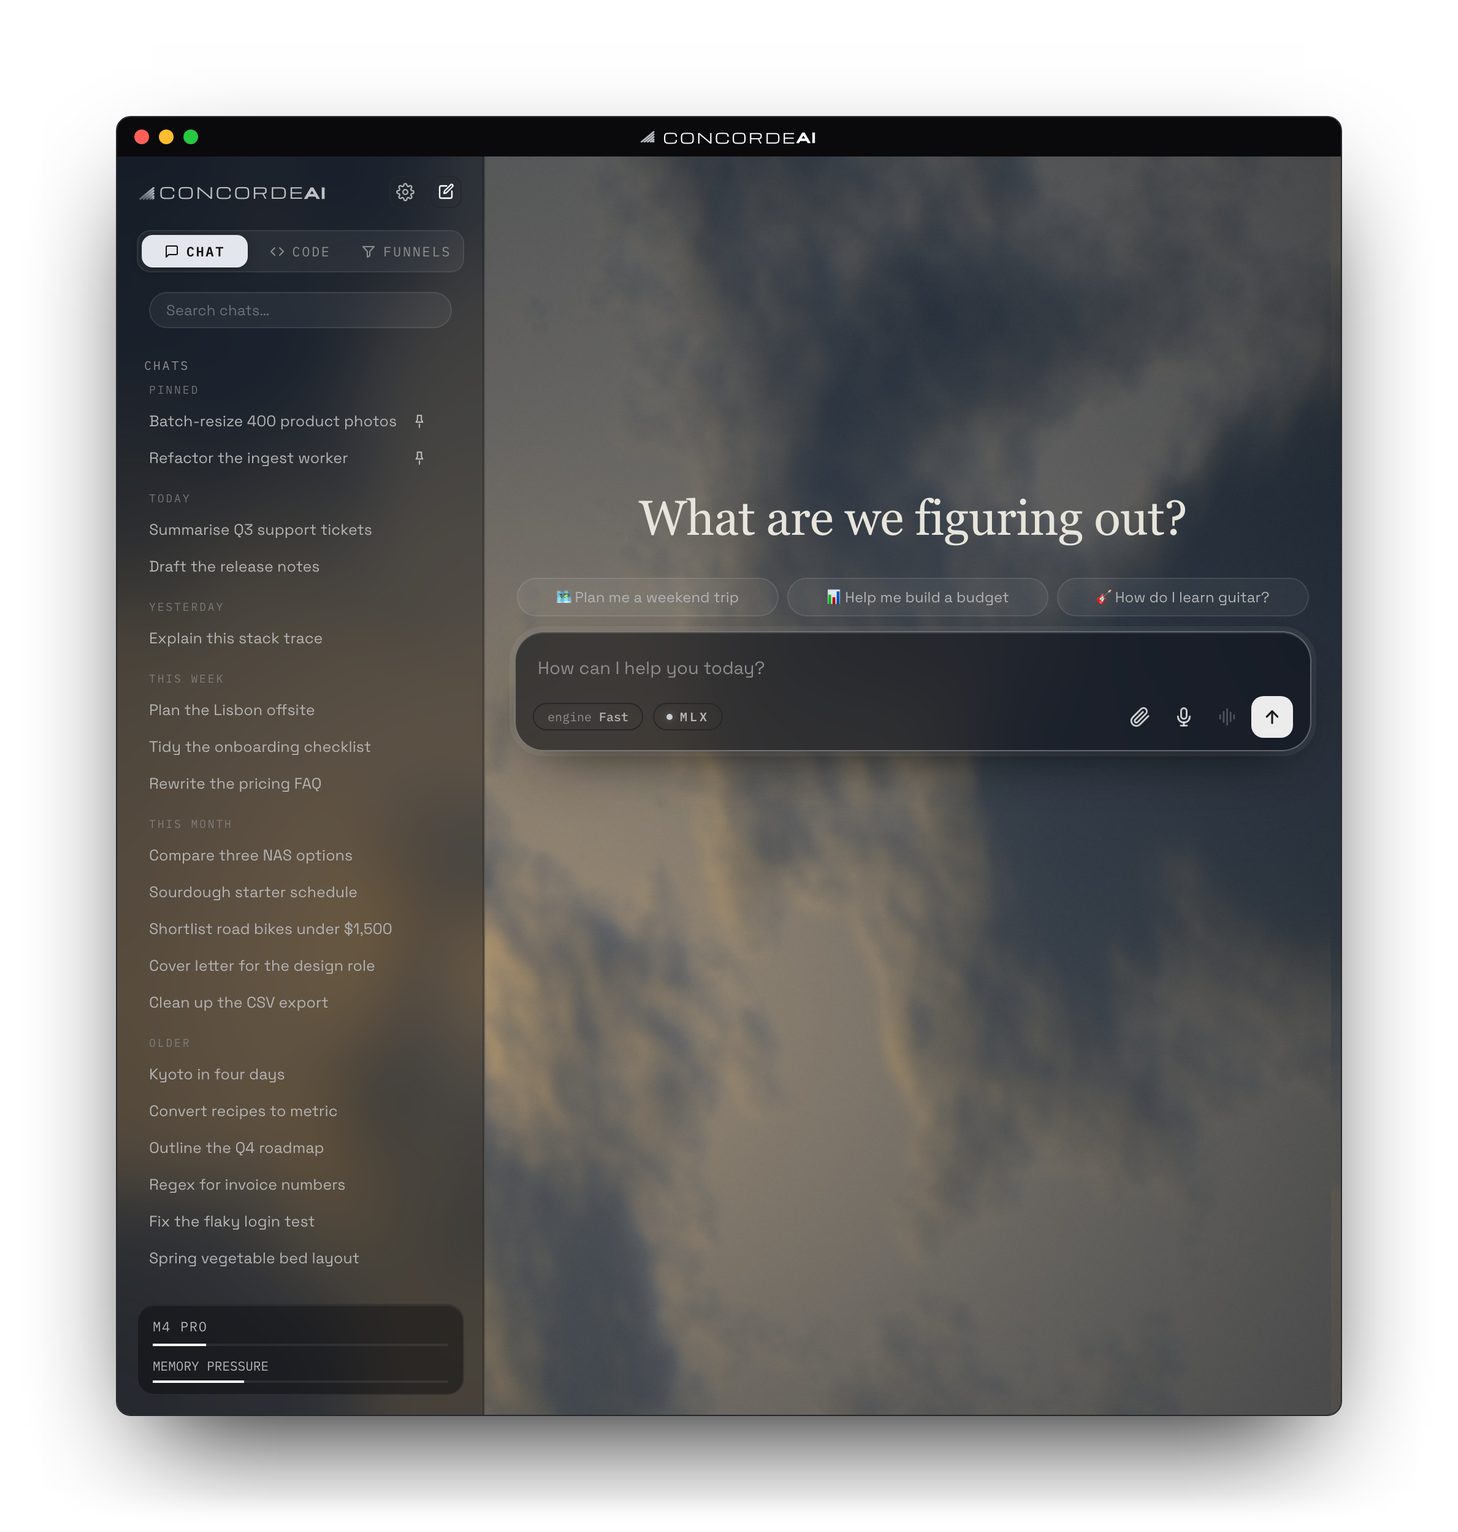
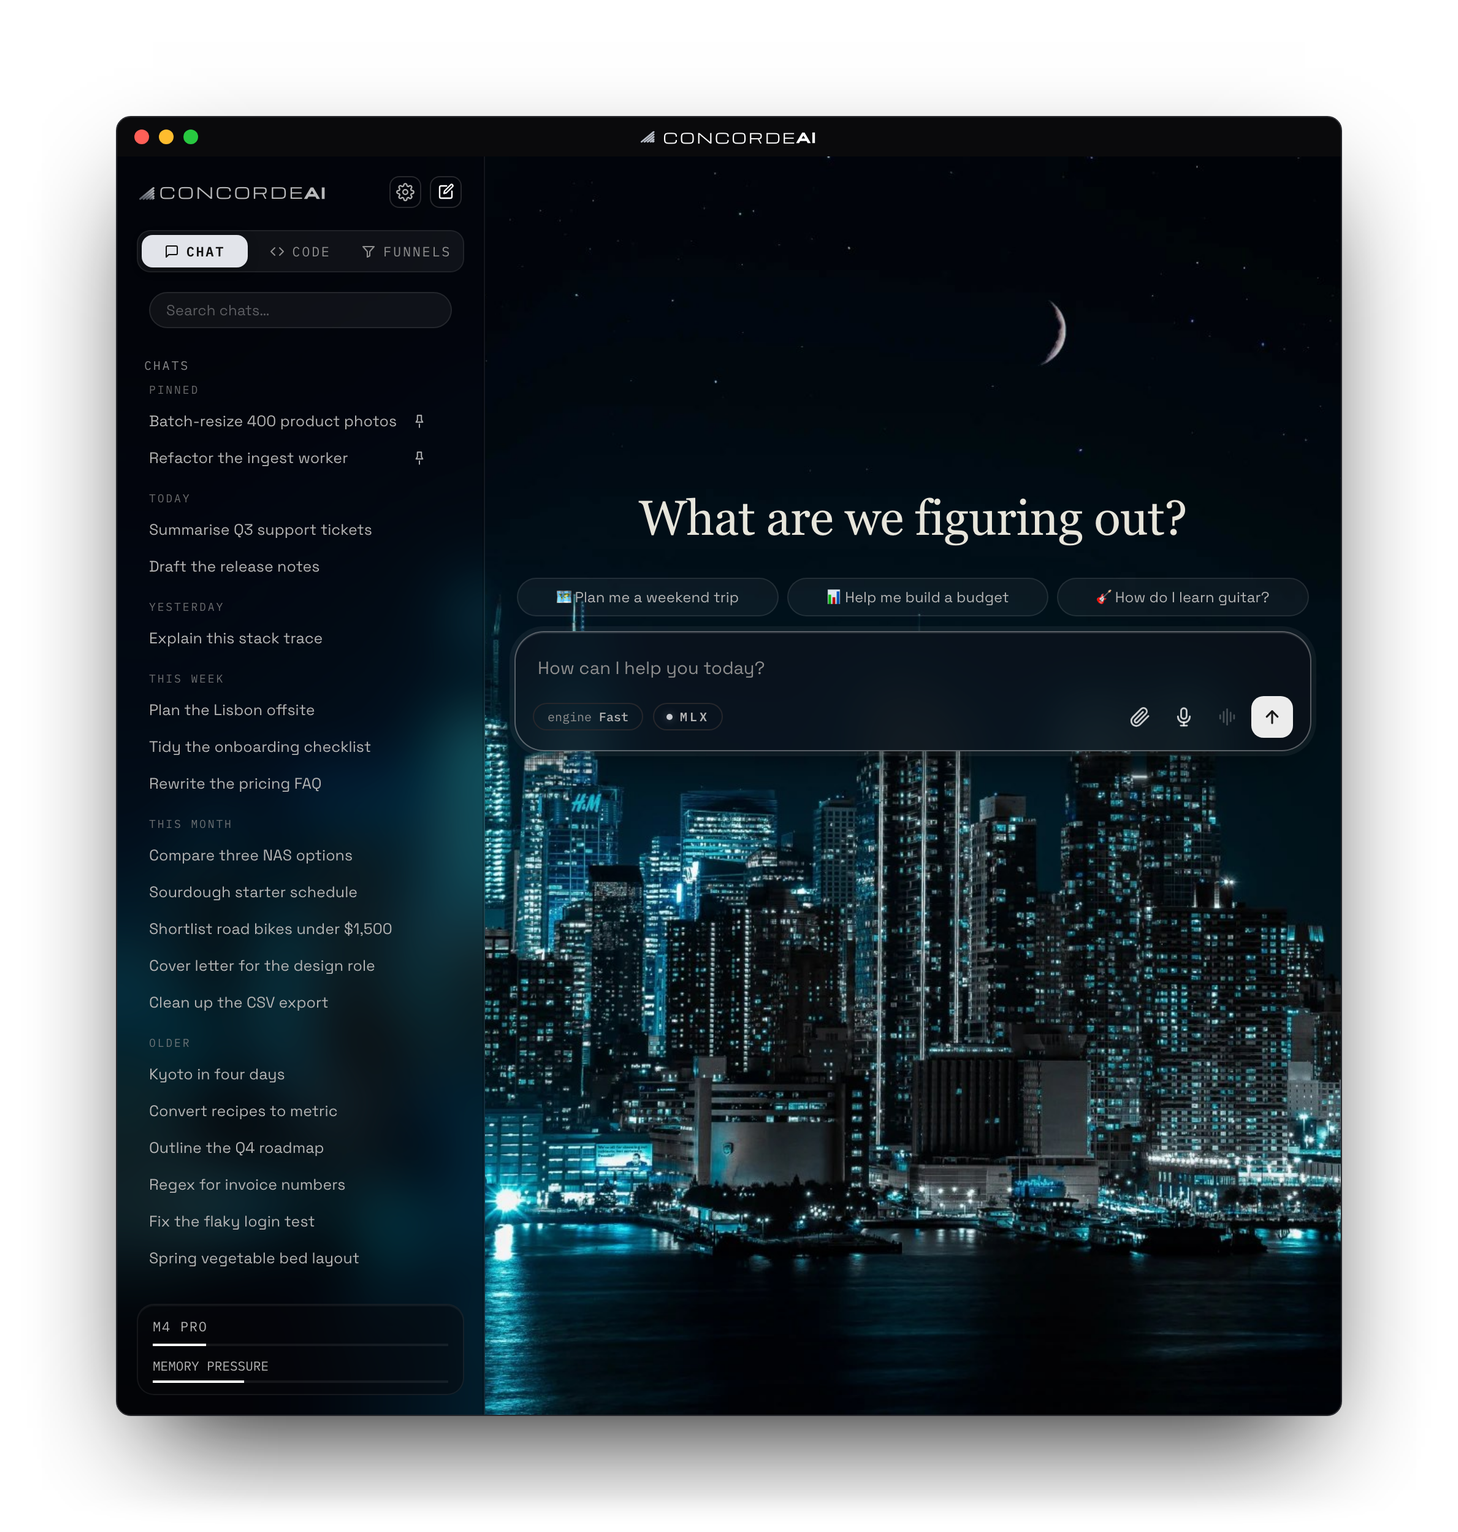
The ConcordeAI window's backdrop is a night skyline still, replacing the generated clouds

diff --git a/tools/windows/ai-window.html b/tools/windows/ai-window.html
@@ -73,9 +73,9 @@ body{
 /* the page's <body> (16164) */
 .app{
   flex:1;min-height:0;display:flex;
-  /* the app plays an Apple TV aerial behind the window; this is a still of
-     our own (tools/make-backdrop.py), under the same frosted glass */
-  background:var(--panel) url(backdrop-clouds.jpg) center / cover no-repeat;
+  /* the app plays a video behind the window; this is a still of one (night
+     skyline, backdrop.jpg), under the same frosted glass */
+  background:var(--panel) url(backdrop.jpg) 8% 50% / cover no-repeat;
   color:var(--text);font-family:var(--sans);font-size:15px;
 }
 

diff --git a/tools/README.md b/tools/README.md
@@ -305,10 +305,8 @@ whatever happened to be on screen. They are HTML so they stay crisp at any
 size and can be restaged without re-shooting. The AI window is the opening
 screen of a new chat (greeting, starter chips, message box) with visual
 effects on: the sidebar and message box are the app's frosted glass over a
-backdrop. The real app plays Apple TV aerial clips there; those are Apple's,
-so the site's is a cloudscape drawn from noise by `make-backdrop.py` into
-`windows/backdrop-clouds.jpg` (a photo you have the rights to can be saved
-over that file). The VPN
+backdrop: a still of a night skyline, `windows/backdrop.jpg` (swap that file
+for any other photo and re-run `make-shots.py`). The VPN
 window is the main window as ConcordeVPN 1.4 draws it, 460x856: connected
 through New York, Balanced, with the speed and route cards.
 ConcordeGo is a website, so its window is a plain browser frame (the address
